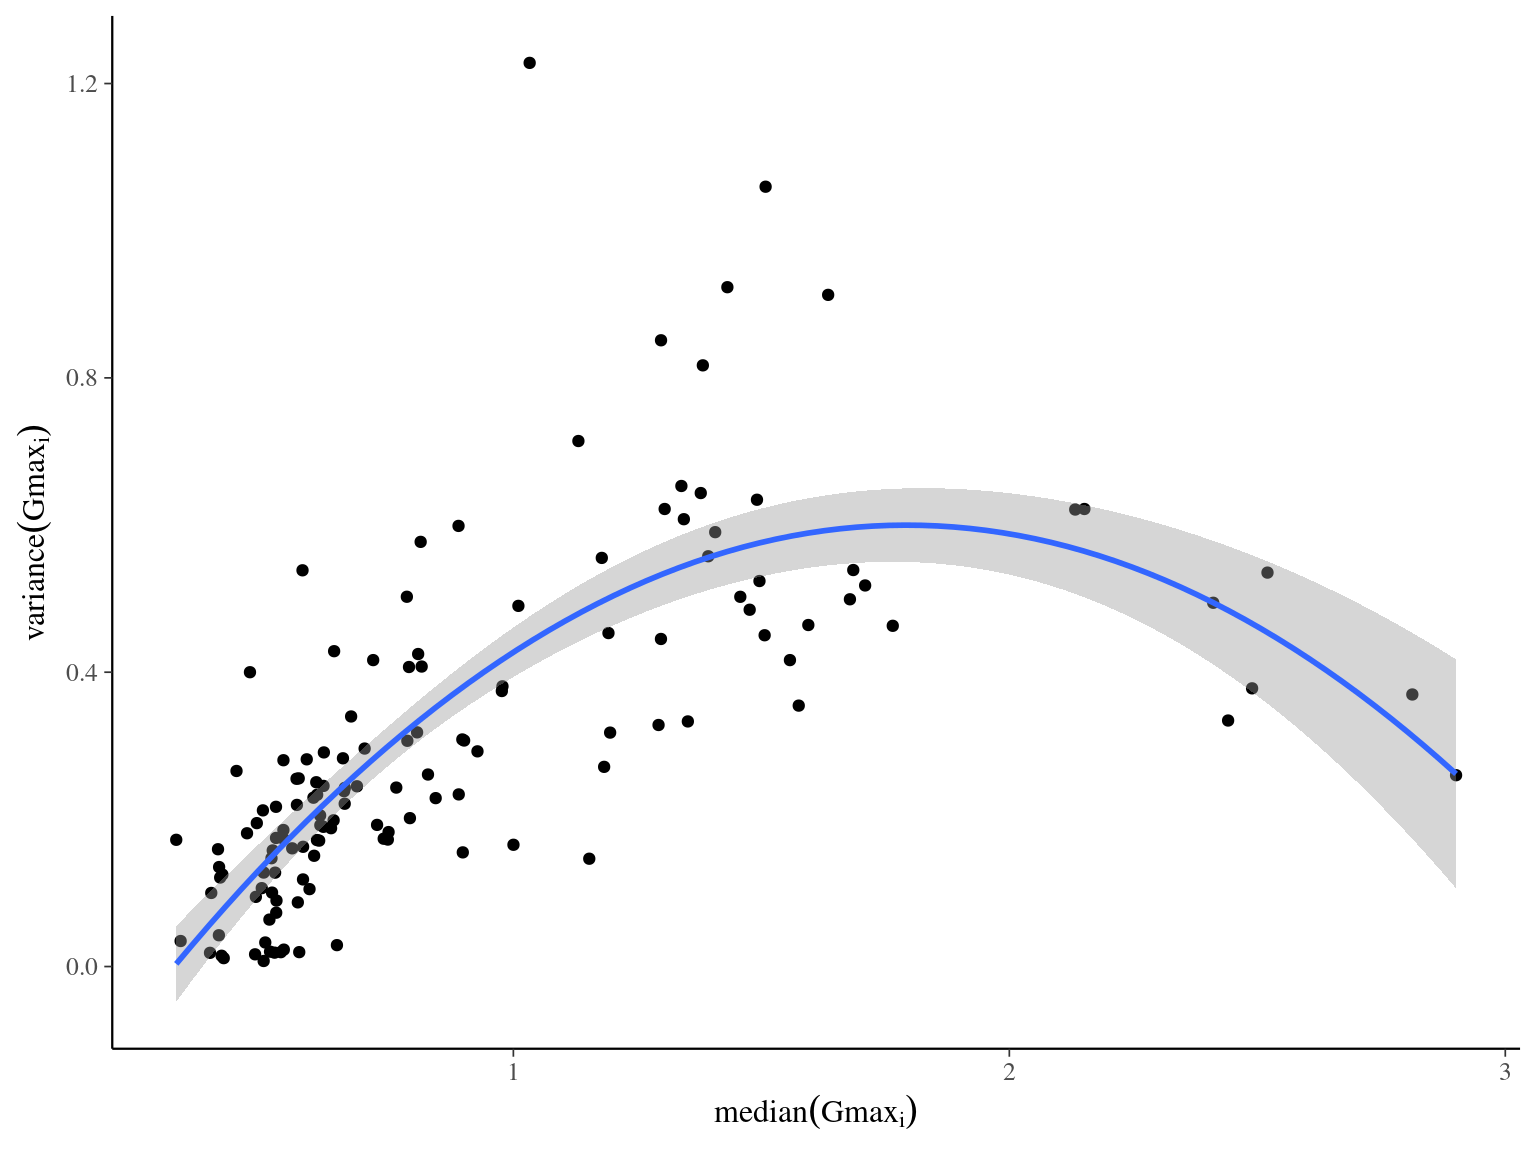
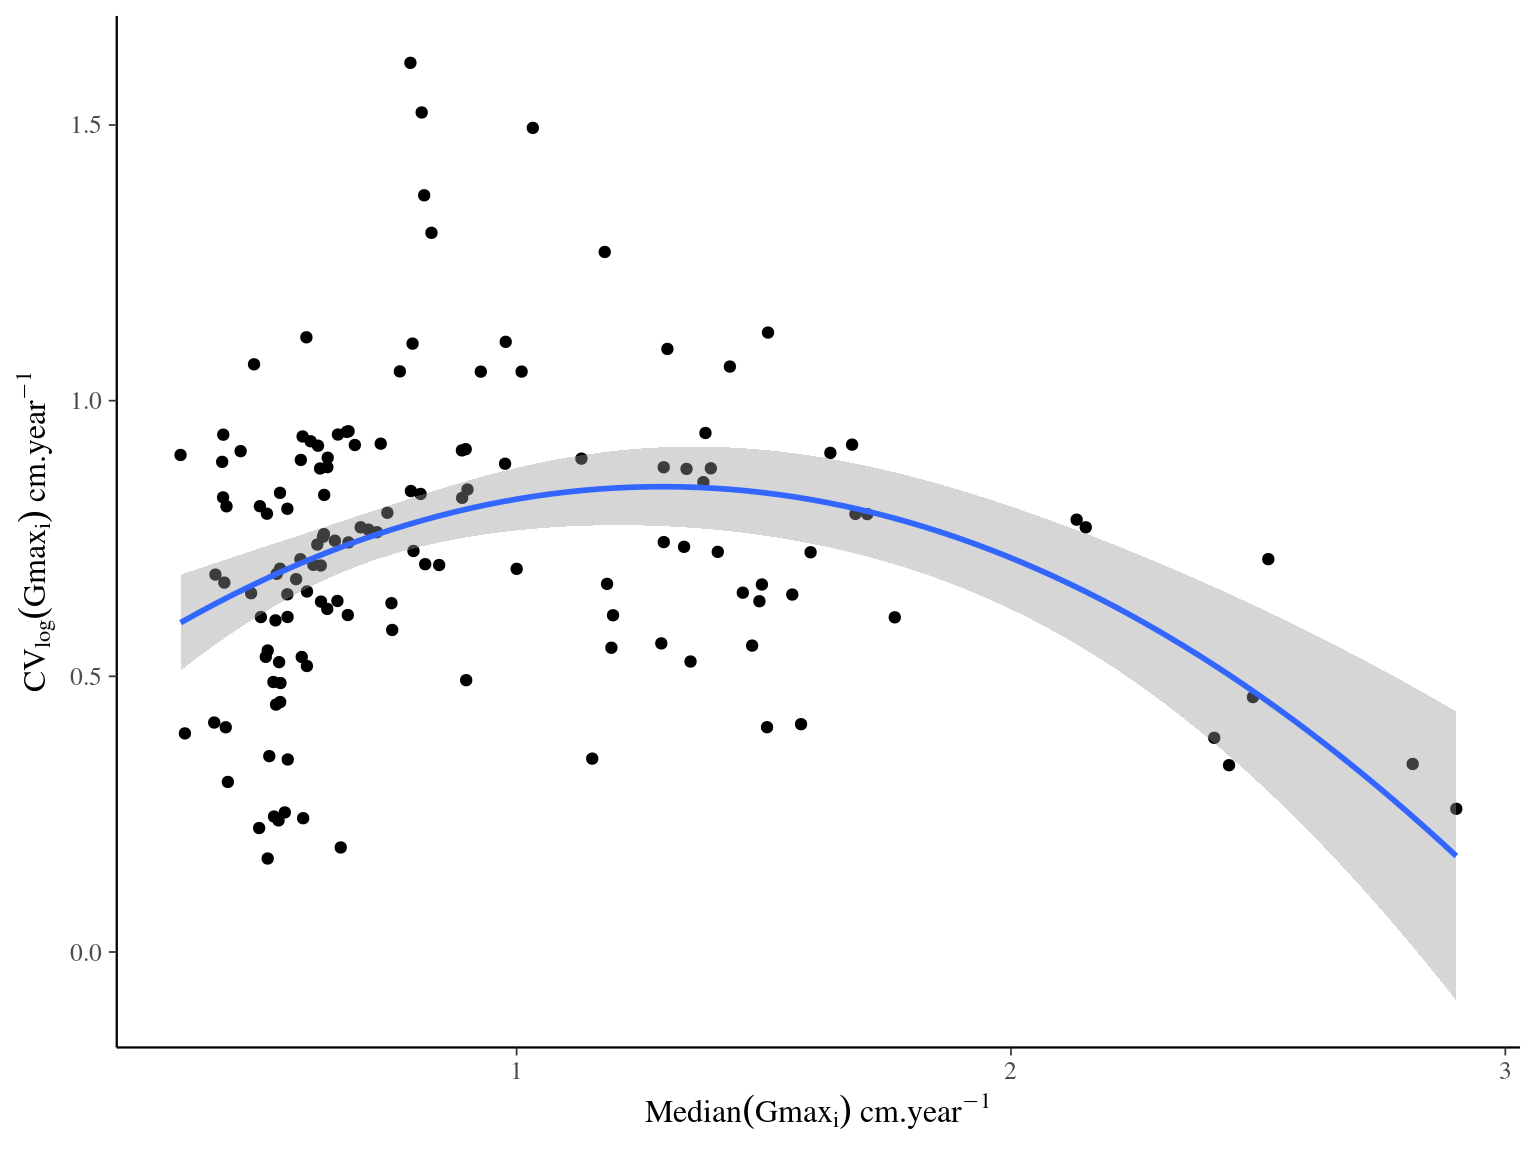
treegrowth 0.0.0.9016: igv using cvlog

diff --git a/docs/analyses-full.html b/docs/analyses-full.html
@@ -24,7 +24,7 @@
 <meta name="author" content="Sylvain Schmitt" />
 
 
-<meta name="date" content="2022-05-17" />
+<meta name="date" content="2022-05-18" />
 
   <meta name="viewport" content="width=device-width, initial-scale=1" />
   <meta name="apple-mobile-web-app-capable" content="yes" />
@@ -193,7 +193,7 @@ on individual growth potential <span class="math inline">\(Gmax\)</span> with th
 We further plotted individual growth potential <span class="math inline">\(Gmax\)</span> along environmental gradients and across the phylogeny.
 We used <code>phylosingal</code> to test for phylogenetic signal <span class="citation">(Keck <em>et al.</em> <a href="#ref-keck_phylosignal:_2016" role="doc-biblioref">2016</a>)</span>,
 before computing phylogenetic correlogram and local indicator of phylogenetic association.</p>
-<p>We used R version 3.6 for all statistical analyses (&lt;www.r- project.org&gt;).</p>
+<p>We used R version 3.6 for all statistical analyses (&lt;www.r-project.org&gt;).</p>
 </div>
 </div>
 <div id="results-1" class="section level2">
@@ -362,7 +362,7 @@ such as slow growing <em>Drypetes variabilis</em> opposed to fast growing <em>Dr
  
 </th>
 <th colspan="3" style="border-top: double; text-align:center; font-style:normal; font-weight:bold; padding:0.2cm; ">
-igv
+cvlog gmaxi
 </th>
 </tr>
 <tr>
@@ -384,24 +384,10 @@ p
 (Intercept)
 </td>
 <td style=" padding:0.2cm; text-align:left; vertical-align:top; text-align:center;  ">
-0.31
+0.73
 </td>
 <td style=" padding:0.2cm; text-align:left; vertical-align:top; text-align:center;  ">
-0.28 – 0.33
-</td>
-<td style=" padding:0.2cm; text-align:left; vertical-align:top; text-align:center;  ">
-<strong>&lt;0.001</strong>
-</td>
-</tr>
-<tr>
-<td style=" padding:0.2cm; text-align:left; vertical-align:top; text-align:left; ">
-gmax [1st degree]
-</td>
-<td style=" padding:0.2cm; text-align:left; vertical-align:top; text-align:center;  ">
-1.57
-</td>
-<td style=" padding:0.2cm; text-align:left; vertical-align:top; text-align:center;  ">
-1.28 – 1.86
+0.69 – 0.77
 </td>
 <td style=" padding:0.2cm; text-align:left; vertical-align:top; text-align:center;  ">
 <strong>&lt;0.001</strong>
@@ -409,13 +395,27 @@ gmax [1st degree]
 </tr>
 <tr>
 <td style=" padding:0.2cm; text-align:left; vertical-align:top; text-align:left; ">
-gmax [2nd degree]
+median gmaxi [1st degree]
 </td>
 <td style=" padding:0.2cm; text-align:left; vertical-align:top; text-align:center;  ">
--1.25
+-0.16
 </td>
 <td style=" padding:0.2cm; text-align:left; vertical-align:top; text-align:center;  ">
--1.55 – -0.96
+-0.65 – 0.34
+</td>
+<td style=" padding:0.2cm; text-align:left; vertical-align:top; text-align:center;  ">
+0.532
+</td>
+</tr>
+<tr>
+<td style=" padding:0.2cm; text-align:left; vertical-align:top; text-align:left; ">
+median gmaxi [2nd degree]
+</td>
+<td style=" padding:0.2cm; text-align:left; vertical-align:top; text-align:center;  ">
+-1.18
+</td>
+<td style=" padding:0.2cm; text-align:left; vertical-align:top; text-align:center;  ">
+-1.68 – -0.69
 </td>
 <td style=" padding:0.2cm; text-align:left; vertical-align:top; text-align:center;  ">
 <strong>&lt;0.001</strong>
@@ -434,7 +434,7 @@ Observations
 R<sup>2</sup> / R<sup>2</sup> adjusted
 </td>
 <td style=" padding:0.2cm; text-align:left; vertical-align:top; padding-top:0.1cm; padding-bottom:0.1cm; text-align:left;" colspan="3">
-0.579 / 0.573
+0.146 / 0.133
 </td>
 </tr>
 </table>
@@ -471,31 +471,31 @@ Figure 6.4: Distribution of intraspecifig growth variability (IGV, cm/yr) in the
 <td align="left">gmax</td>
 <td align="left">Cmean</td>
 <td align="right">0.001</td>
-<td align="right">0.4695480</td>
+<td align="right">0.4845173</td>
 </tr>
 <tr class="even">
 <td align="left">gmax</td>
 <td align="left">I</td>
 <td align="right">0.001</td>
-<td align="right">0.1578366</td>
+<td align="right">0.1579429</td>
 </tr>
 <tr class="odd">
 <td align="left">gmax</td>
 <td align="left">K</td>
-<td align="right">0.140</td>
-<td align="right">0.0705706</td>
+<td align="right">0.165</td>
+<td align="right">0.0727083</td>
 </tr>
 <tr class="even">
 <td align="left">gmax</td>
 <td align="left">K.star</td>
-<td align="right">0.131</td>
-<td align="right">0.0748034</td>
+<td align="right">0.167</td>
+<td align="right">0.0770785</td>
 </tr>
 <tr class="odd">
 <td align="left">gmax</td>
 <td align="left">Lambda</td>
 <td align="right">0.001</td>
-<td align="right">0.8131744</td>
+<td align="right">0.7158811</td>
 </tr>
 </tbody>
 </table>

diff --git a/docs/index.html b/docs/index.html
@@ -24,7 +24,7 @@
 <meta name="author" content="Sylvain Schmitt" />
 
 
-<meta name="date" content="2022-05-17" />
+<meta name="date" content="2022-05-18" />
 
   <meta name="viewport" content="width=device-width, initial-scale=1" />
   <meta name="apple-mobile-web-app-capable" content="yes" />
@@ -162,7 +162,7 @@ This book is in <b><a href="open.html#open">Open Review</a></b>. I want your fee
 <h1 class="title">Tree Growth</h1>
 <h2 class="subtitle"><em>Variation in the growth potential of individual trees at the Paracou research station.</em></h2>
 <p class="author"><em>Sylvain Schmitt</em></p>
-<p class="date"><em>2022-05-17</em></p>
+<p class="date"><em>2022-05-18</em></p>
 </div>
 <div id="introduction" class="section level1 unnumbered">
 <h1>Introduction</h1>

diff --git a/docs/analyses-half.html b/docs/analyses-half.html
@@ -24,7 +24,7 @@
 <meta name="author" content="Sylvain Schmitt" />
 
 
-<meta name="date" content="2022-05-17" />
+<meta name="date" content="2022-05-18" />
 
   <meta name="viewport" content="width=device-width, initial-scale=1" />
   <meta name="apple-mobile-web-app-capable" content="yes" />

diff --git a/docs/model-choice.html b/docs/model-choice.html
@@ -24,7 +24,7 @@
 <meta name="author" content="Sylvain Schmitt" />
 
 
-<meta name="date" content="2022-05-17" />
+<meta name="date" content="2022-05-18" />
 
   <meta name="viewport" content="width=device-width, initial-scale=1" />
   <meta name="apple-mobile-web-app-capable" content="yes" />

diff --git a/docs/model-full.html b/docs/model-full.html
@@ -24,7 +24,7 @@
 <meta name="author" content="Sylvain Schmitt" />
 
 
-<meta name="date" content="2022-05-17" />
+<meta name="date" content="2022-05-18" />
 
   <meta name="viewport" content="width=device-width, initial-scale=1" />
   <meta name="apple-mobile-web-app-capable" content="yes" />

diff --git a/docs/model-half.html b/docs/model-half.html
@@ -24,7 +24,7 @@
 <meta name="author" content="Sylvain Schmitt" />
 
 
-<meta name="date" content="2022-05-17" />
+<meta name="date" content="2022-05-18" />
 
   <meta name="viewport" content="width=device-width, initial-scale=1" />
   <meta name="apple-mobile-web-app-capable" content="yes" />

diff --git a/docs/model-species.html b/docs/model-species.html
@@ -24,7 +24,7 @@
 <meta name="author" content="Sylvain Schmitt" />
 
 
-<meta name="date" content="2022-05-17" />
+<meta name="date" content="2022-05-18" />
 
   <meta name="viewport" content="width=device-width, initial-scale=1" />
   <meta name="apple-mobile-web-app-capable" content="yes" />

diff --git a/docs/other-analyses.html b/docs/other-analyses.html
@@ -24,7 +24,7 @@
 <meta name="author" content="Sylvain Schmitt" />
 
 
-<meta name="date" content="2022-05-17" />
+<meta name="date" content="2022-05-18" />
 
   <meta name="viewport" content="width=device-width, initial-scale=1" />
   <meta name="apple-mobile-web-app-capable" content="yes" />

diff --git a/docs/references.html b/docs/references.html
@@ -24,7 +24,7 @@
 <meta name="author" content="Sylvain Schmitt" />
 
 
-<meta name="date" content="2022-05-17" />
+<meta name="date" content="2022-05-18" />
 
   <meta name="viewport" content="width=device-width, initial-scale=1" />
   <meta name="apple-mobile-web-app-capable" content="yes" />

diff --git a/NEWS.md b/NEWS.md
@@ -1,3 +1,5 @@
+treegrowth 0.0.0.9016: igv using cvlog
+
 treegrowth 0.0.0.9015: intraspecific growth variability IGV !
 
 treegrowth 0.0.0.9014: full results & dmax model
